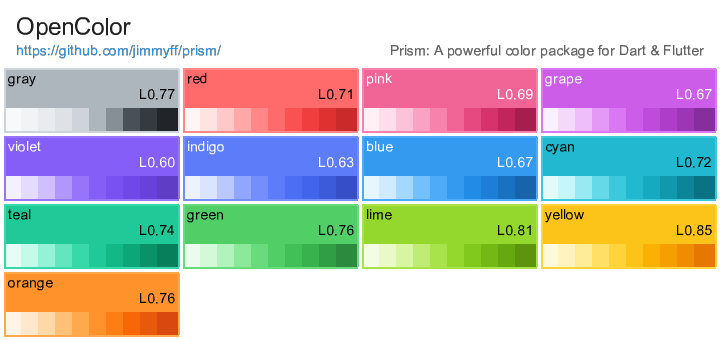
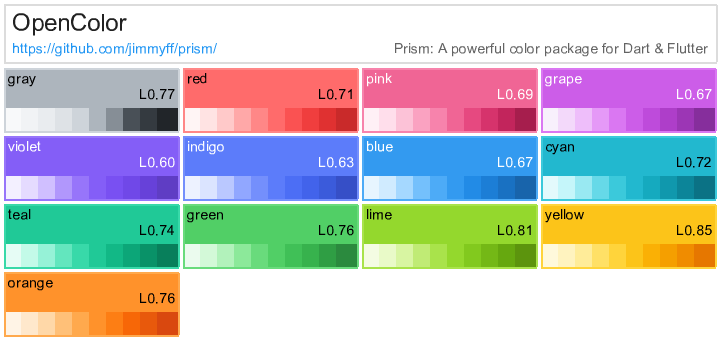
fixed palette png transparency

Changed region(s): [[0.0, 0.0, 1.0, 0.2059]]

diff --git a/packages/prism/tools/palettes/palette_image_generator.dart b/packages/prism/tools/palettes/palette_image_generator.dart
@@ -14,6 +14,8 @@ final text = RayRgb8(red: 100, green: 100, blue: 100).toRgb16();
 final link = RayRgb8(red: 33, green: 150, blue: 243).toRgb16();
 final bg = RayRgb8(red: 255, green: 255, blue: 255).toRgb16();
 
+final border = RayRgb8(red: 220, green: 220, blue: 220).toRgb16();
+
 class PaletteImageGenerator {
   static const int imageWidth = 720;
   static const int columns = 4;
@@ -40,9 +42,8 @@ class PaletteImageGenerator {
         height: imageHeight,
         numChannels: 4,
         format: img.Format.uint16,
-        backgroundColor: colorFromRay(bg),
+        // backgroundColor: colorFromRay(bg),
         paletteFormat: img.Format.uint16);
-    img.fill(image, color: colorFromRay(bg));
 
     // Draw header
     _drawHeader(image, className);
@@ -88,13 +89,32 @@ class PaletteImageGenerator {
   }
 
   static void _drawHeader(img.Image image, String className) {
+    // header background color
+    img.fillRect(
+      image,
+      x1: 4,
+      y1: 4,
+      x2: imageWidth - 4,
+      y2: headerHeight - 2,
+      color: colorFromRay(bg),
+    );
+    img.drawRect(
+      image,
+      x1: 4,
+      y1: 4,
+      x2: imageWidth - 4,
+      y2: headerHeight - 2,
+      color: colorFromRay(border),
+      thickness: 1.5,
+    );
+
     // Draw palette name
     img.drawString(
       image,
       className,
       font: img.arial24,
-      x: 16,
-      y: 16,
+      x: 12,
+      y: 12,
       color: colorFromRay(title),
     );
 
@@ -104,8 +124,8 @@ class PaletteImageGenerator {
       'Prism: A powerful color package for Dart & Flutter',
       font: img.arial14,
       rightJustify: true,
-      x: imageWidth - 16,
-      y: 44,
+      x: imageWidth - 12,
+      y: 42,
       color: colorFromRay(text),
     );
 
@@ -114,8 +134,8 @@ class PaletteImageGenerator {
       image,
       'https://github.com/jimmyff/prism/',
       font: img.arial14,
-      x: 16,
-      y: 44,
+      x: 12,
+      y: 42,
       color: colorFromRay(link),
     );
   }

diff --git a/palette_gallery/CssOklch.css b/palette_gallery/CssOklch.css
@@ -3,7 +3,7 @@
  * Generated by Prism Color Library
  * https://pub.dev/packages/prism
  * 
- * Generated: 2025-08-01T09:40:05.832931
+ * Generated: 2025-08-01T09:58:29.060446
  * 
  * This file is auto-generated. Do not edit manually.
  * To regenerate: dart run packages/prism/tools/palettes/build_gallery.dart

diff --git a/palette_gallery/CssRgb.css b/palette_gallery/CssRgb.css
@@ -3,7 +3,7 @@
  * Generated by Prism Color Library
  * https://pub.dev/packages/prism
  * 
- * Generated: 2025-08-01T09:40:05.827756
+ * Generated: 2025-08-01T09:58:29.054884
  * 
  * This file is auto-generated. Do not edit manually.
  * To regenerate: dart run packages/prism/tools/palettes/build_gallery.dart

diff --git a/palette_gallery/MaterialOklch.css b/palette_gallery/MaterialOklch.css
@@ -3,7 +3,7 @@
  * Generated by Prism Color Library
  * https://pub.dev/packages/prism
  * 
- * Generated: 2025-08-01T09:40:06.586903
+ * Generated: 2025-08-01T09:58:29.965042
  * 
  * This file is auto-generated. Do not edit manually.
  * To regenerate: dart run packages/prism/tools/palettes/build_gallery.dart

diff --git a/palette_gallery/MaterialRgb.css b/palette_gallery/MaterialRgb.css
@@ -3,7 +3,7 @@
  * Generated by Prism Color Library
  * https://pub.dev/packages/prism
  * 
- * Generated: 2025-08-01T09:40:06.586114
+ * Generated: 2025-08-01T09:58:29.963975
  * 
  * This file is auto-generated. Do not edit manually.
  * To regenerate: dart run packages/prism/tools/palettes/build_gallery.dart

diff --git a/palette_gallery/OpenColorOklch.css b/palette_gallery/OpenColorOklch.css
@@ -3,7 +3,7 @@
  * Generated by Prism Color Library
  * https://pub.dev/packages/prism
  * 
- * Generated: 2025-08-01T09:40:06.701228
+ * Generated: 2025-08-01T09:58:30.084797
  * 
  * This file is auto-generated. Do not edit manually.
  * To regenerate: dart run packages/prism/tools/palettes/build_gallery.dart

diff --git a/palette_gallery/OpenColorRgb.css b/palette_gallery/OpenColorRgb.css
@@ -3,7 +3,7 @@
  * Generated by Prism Color Library
  * https://pub.dev/packages/prism
  * 
- * Generated: 2025-08-01T09:40:06.700772
+ * Generated: 2025-08-01T09:58:30.084408
  * 
  * This file is auto-generated. Do not edit manually.
  * To regenerate: dart run packages/prism/tools/palettes/build_gallery.dart

diff --git a/palette_gallery/SpectrumOklch.css b/palette_gallery/SpectrumOklch.css
@@ -3,7 +3,7 @@
  * Generated by Prism Color Library
  * https://pub.dev/packages/prism
  * 
- * Generated: 2025-08-01T09:40:05.424725
+ * Generated: 2025-08-01T09:58:28.656912
  * 
  * This file is auto-generated. Do not edit manually.
  * To regenerate: dart run packages/prism/tools/palettes/build_gallery.dart

diff --git a/palette_gallery/SpectrumRgb.css b/palette_gallery/SpectrumRgb.css
@@ -3,7 +3,7 @@
  * Generated by Prism Color Library
  * https://pub.dev/packages/prism
  * 
- * Generated: 2025-08-01T09:40:05.414929
+ * Generated: 2025-08-01T09:58:28.648279
  * 
  * This file is auto-generated. Do not edit manually.
  * To regenerate: dart run packages/prism/tools/palettes/build_gallery.dart
